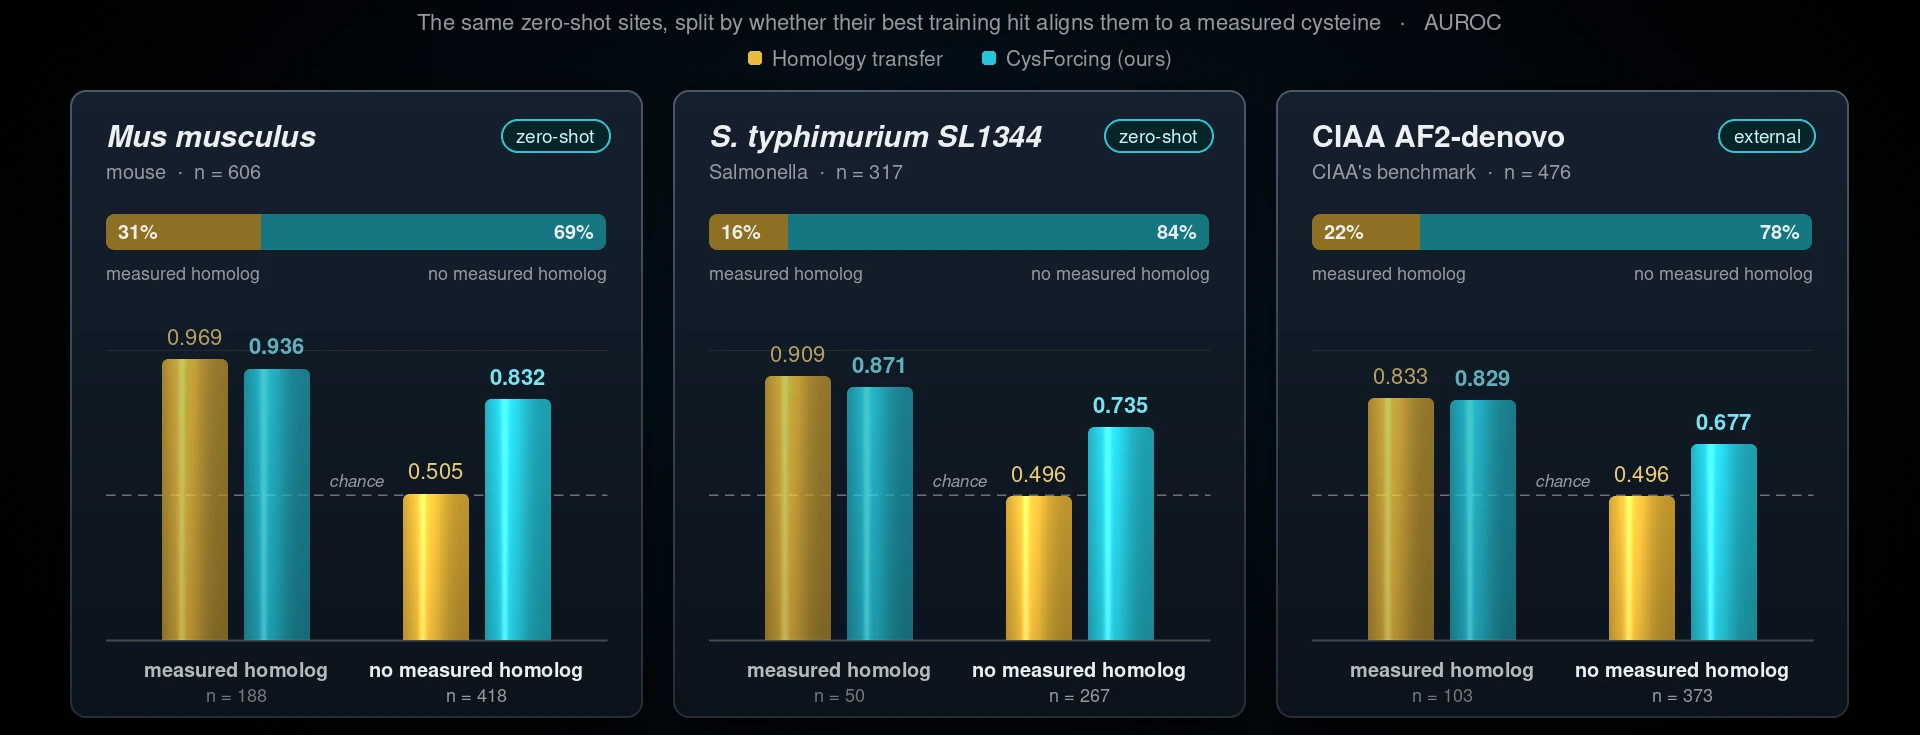
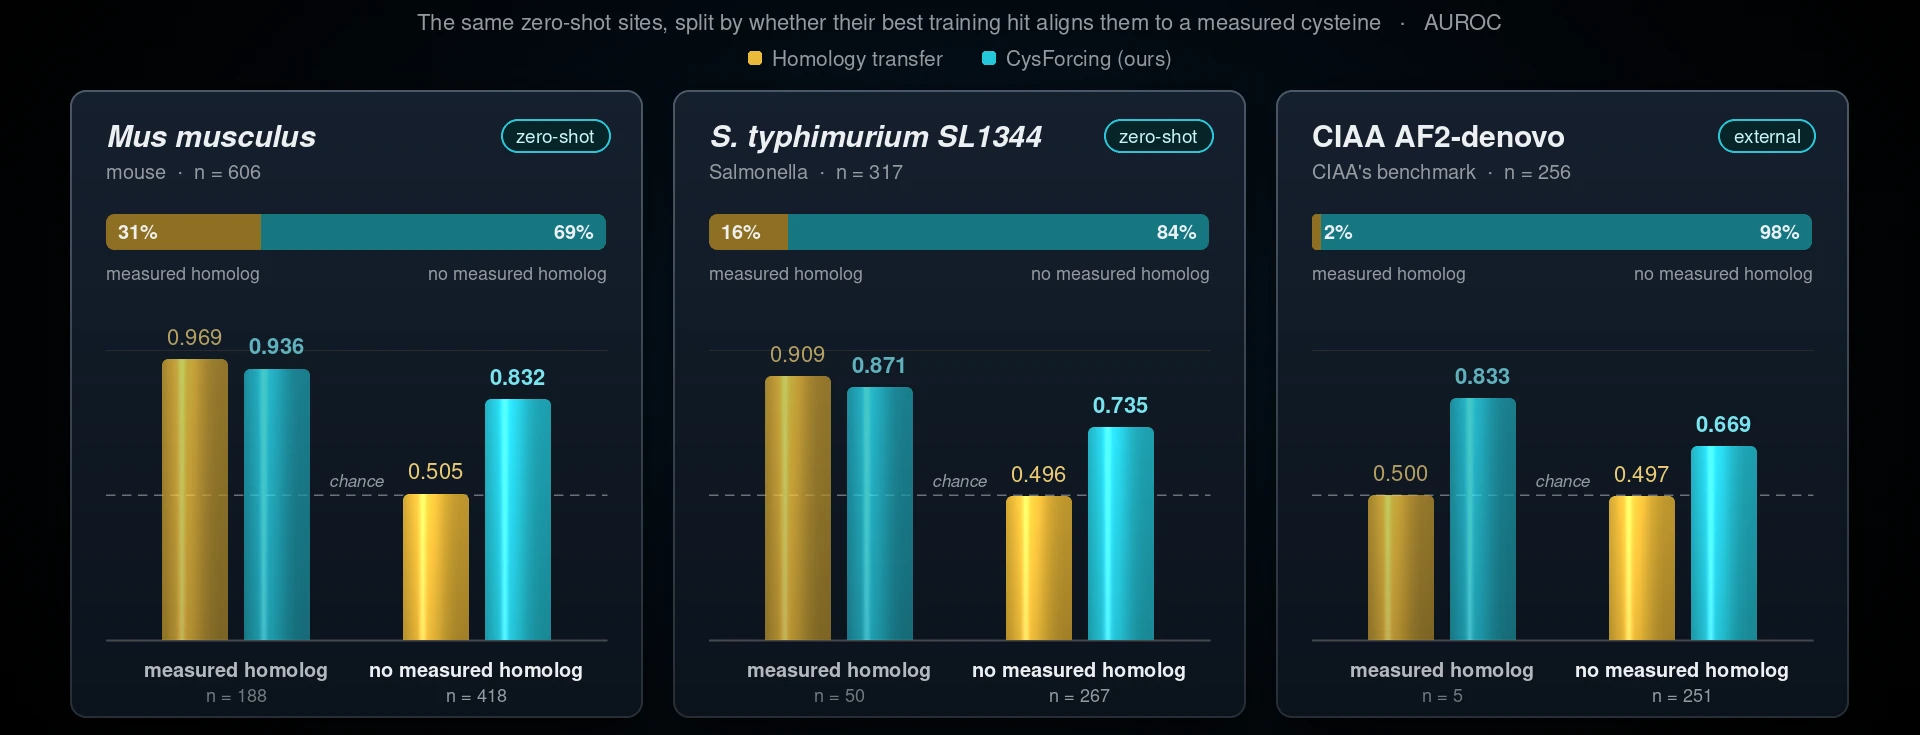
Update project page CIAA radar and homology panels to leakage-free 256 sites

diff --git a/docs/index.html b/docs/index.html
@@ -107,11 +107,11 @@
 
     <h2 class="shead"><span>Generalization</span><em>Zero-shot against released predictors</em></h2>
     <div class="screen reveal"><img src="static/fig_zs_radar.webp" alt="Radar plots of AUROC, AUPRC, MCC and balanced accuracy for CysForcing, CIAA RF, HyperCys and sbPCR on three zero-shot sets" loading="lazy"></div>
-    <p class="caption reveal">On mouse, Salmonella SL1344 and CIAA's AlphaFold2 benchmark, CysForcing leads every metric on every set, by +0.15 to +0.28 AUROC over the best released predictor.</p>
+    <p class="caption reveal">On mouse, Salmonella SL1344 and CIAA's AlphaFold2 benchmark, CysForcing leads every metric on every set, by +0.12 to +0.28 AUROC over the best released predictor.</p>
 
     <h2 class="shead"><span>Generalization</span><em>Where homology cannot help</em></h2>
     <div class="screen reveal"><img src="static/fig_zs_homology.webp" alt="AUROC of homology transfer and CysForcing on sites with and without a measured homolog" loading="lazy"></div>
-    <p class="caption reveal">Homology transfer copies the ratio of an aligned, measured training cysteine; for the 69–84% of sites without one it falls to chance, while CysForcing keeps AUROC 0.68–0.83.</p>
+    <p class="caption reveal">Homology transfer copies the ratio of an aligned, measured training cysteine; for the 69–98% of sites without one it falls to chance, while CysForcing keeps AUROC 0.67–0.83.</p>
 
     <h2 class="shead"><span>Summary</span></h2>
     <div class="cards">
